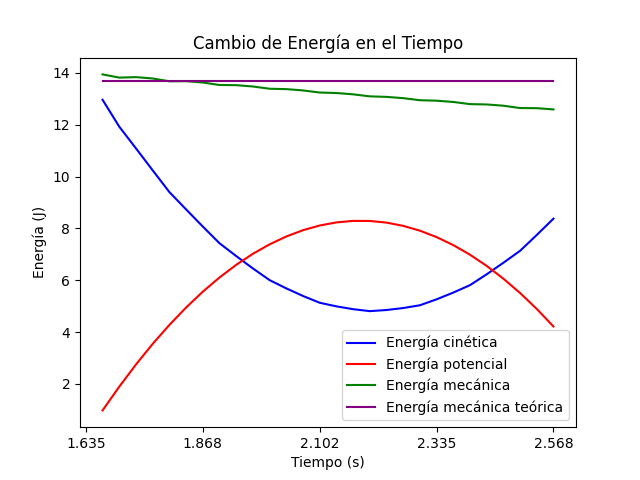
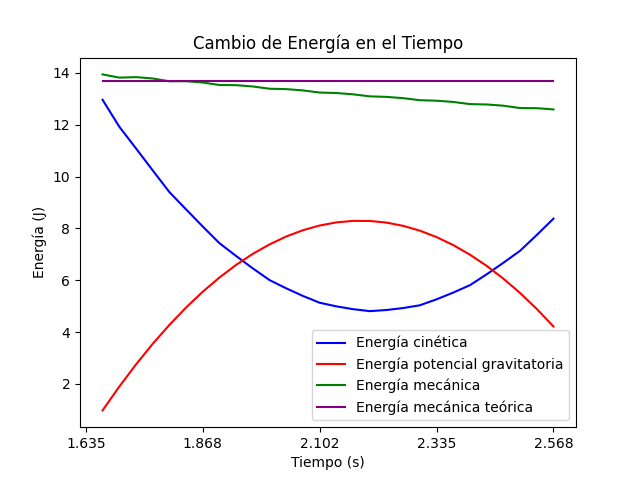
fix leyenda energia potencial gravitatoria

Changed region(s): [[0.5, 0.6875, 0.875, 0.875]]

diff --git a/src/basket-doble/pandas_procesing.py b/src/basket-doble/pandas_procesing.py
@@ -376,7 +376,7 @@ def graficar_energia(tabla,guardar_grafica=None, mostrar_grafica=None):
     mecanica_teorica = 13.6756
 
     ax.plot(tiempo, cinetica, color="blue", label="Energía cinética")
-    ax.plot(tiempo, potencial, color="red", label="Energía potencial")
+    ax.plot(tiempo, potencial, color="red", label="Energía potencial gravitatoria")
     ax.plot(tiempo, mecanica, color="green", label="Energía mecánica")
     #ax.axhline(y=mecanica_teorica, color="purple", label="Energía mecánica teórica")
     # Añadir una línea horizontal que comienza desde el primer valor de Time
